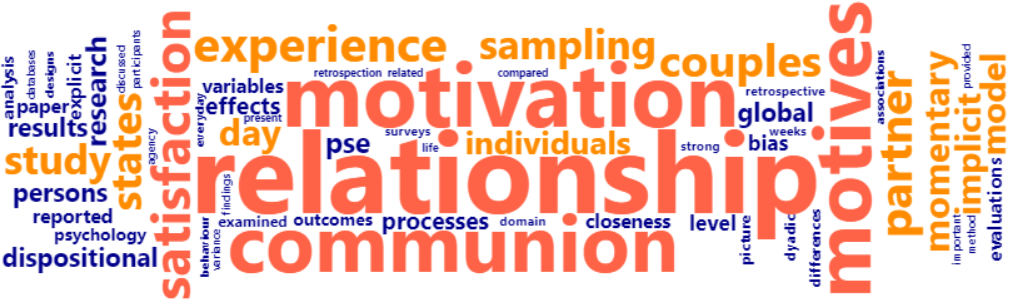
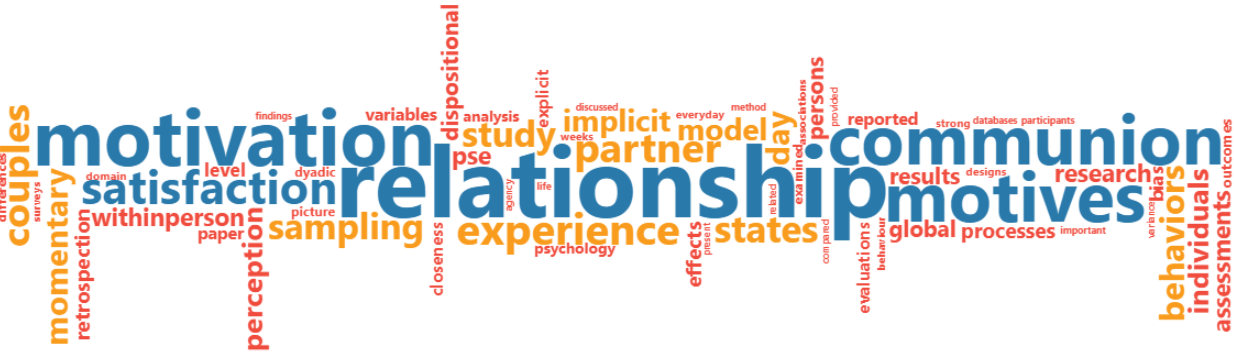
yet another wordcloud (new colors) and credits

diff --git a/_pages/about.md b/_pages/about.md
@@ -28,4 +28,9 @@ Current projects
 
 I am currently on parental leave. 
 
-In summer 2023 I am starting a [project funded by the German Research Foundation](https://gepris.dfg.de/gepris/projekt/497443642?language=en) which aims to causally investigate fundamental assumptions of motivational theories applied to couple relationships. I will be recruiting a PhD student for this project soon. Follow me on [Twitter](https://twitter.com/psycaroly) for updates.
+In summer 2023 I am starting a [project funded by the German Research Foundation](https://gepris.dfg.de/gepris/projekt/497443642?language=en) which aims to causally investigate fundamental assumptions of motivational theories applied to couple relationships, together with my dear colleague [Felix Schönbrodt](https://www.psy.lmu.de/pm/personen/lehrstuhlmitarbeiter/schoenbrodt/index.html). We will be recruiting a PhD student for this project soon. Follow me on [Twitter](https://twitter.com/psycaroly) for updates.
+
+Credit
+======
+
+This website was made with the help of [the tutorial by Rob Williams](https://jayrobwilliams.com/posts/2020/06/academic-website/).

diff --git a/_pages/publications.md b/_pages/publications.md
@@ -13,6 +13,8 @@ author_profile: true
 
 <img src="/images/wordcloud.png">
 
+<small><i>This wordcloud was made with R and the <a href="https://cran.r-project.org/web/packages/wordcloud2/vignettes/wordcloud.html">wordcloud2</a> package by Lang (2023).<i>
+
 {% for post in site.publications reversed %}
   {% include archive-single-publications.html %}
 {% endfor %}
